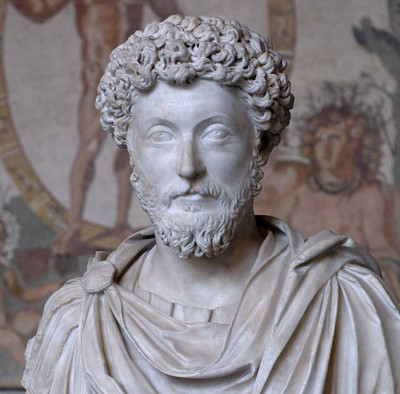
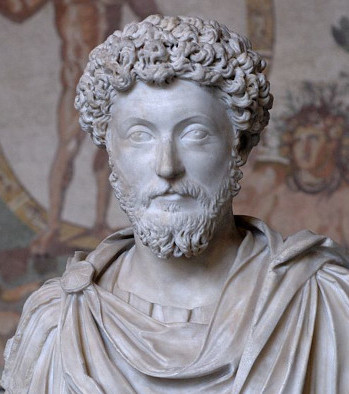
basic layout

diff --git a/src/App.js b/src/App.js
@@ -11,6 +11,7 @@ import commodus from './images/commodus.jpg';
 import titus from './images/titus.jpg';
 import maximinus from './images/maximinus.jpg';
 import './App.css';
+import Card from './Components/Card';
 
 /* Note: the source property is for documentation of the original source. It's 
 not used in the application */
@@ -116,11 +117,14 @@ const images = [
 function App() {
   return (
     <div className="App">
-      <header className="App-header">
-        {images.map(img => {
-          return <img src={img.src} alt={img.description} />;
-        })}
-      </header>
+      <header className="App-header"></header>
+      <main>
+        <div className="memory-wrapper">
+          {images.map(img => {
+            return <Card src={img.src} alt={img.description} />;
+          })}
+        </div>
+      </main>
     </div>
   );
 }

diff --git a/src/App.css b/src/App.css
@@ -1,3 +1,17 @@
-.App {
-  text-align: center;
+.memory-wrapper {
+  display: grid;
+  grid-template-columns: repeat(3, 1fr);
+  column-gap: 10px;
+  row-gap: 10px;
+  justify-items: stretch;
+  max-width: 920px;
+  justify-content: center;
+  margin-left: auto;
+  margin-right: auto;
+}
+
+@media (min-width: 701px) {
+  .memory-wrapper {
+    grid-template-columns: repeat(4, 1fr);
+  }
 }

diff --git a/src/Components/Card.css b/src/Components/Card.css
@@ -1,0 +1,20 @@
+.image-wrapper {
+  position: relative;
+  width: 100%;
+  height: 0;
+  padding-bottom: 110%;
+  overflow: hidden;
+}
+
+.image-wrapper img {
+  position: absolute;
+  top: 0;
+  left: 0;
+  width: 100%;
+  height: auto;
+}
+
+.card {
+  min-width: 100px;
+  max-width: 300px;
+}

diff --git a/src/Components/Card.js b/src/Components/Card.js
@@ -1,0 +1,14 @@
+import React from 'react';
+import './Card.css';
+
+const Card = props => {
+  return (
+    <div className="card">
+      <div className="image-wrapper">
+        <img src={props.src} alt={props.description} />
+      </div>
+    </div>
+  );
+};
+
+export default Card;
